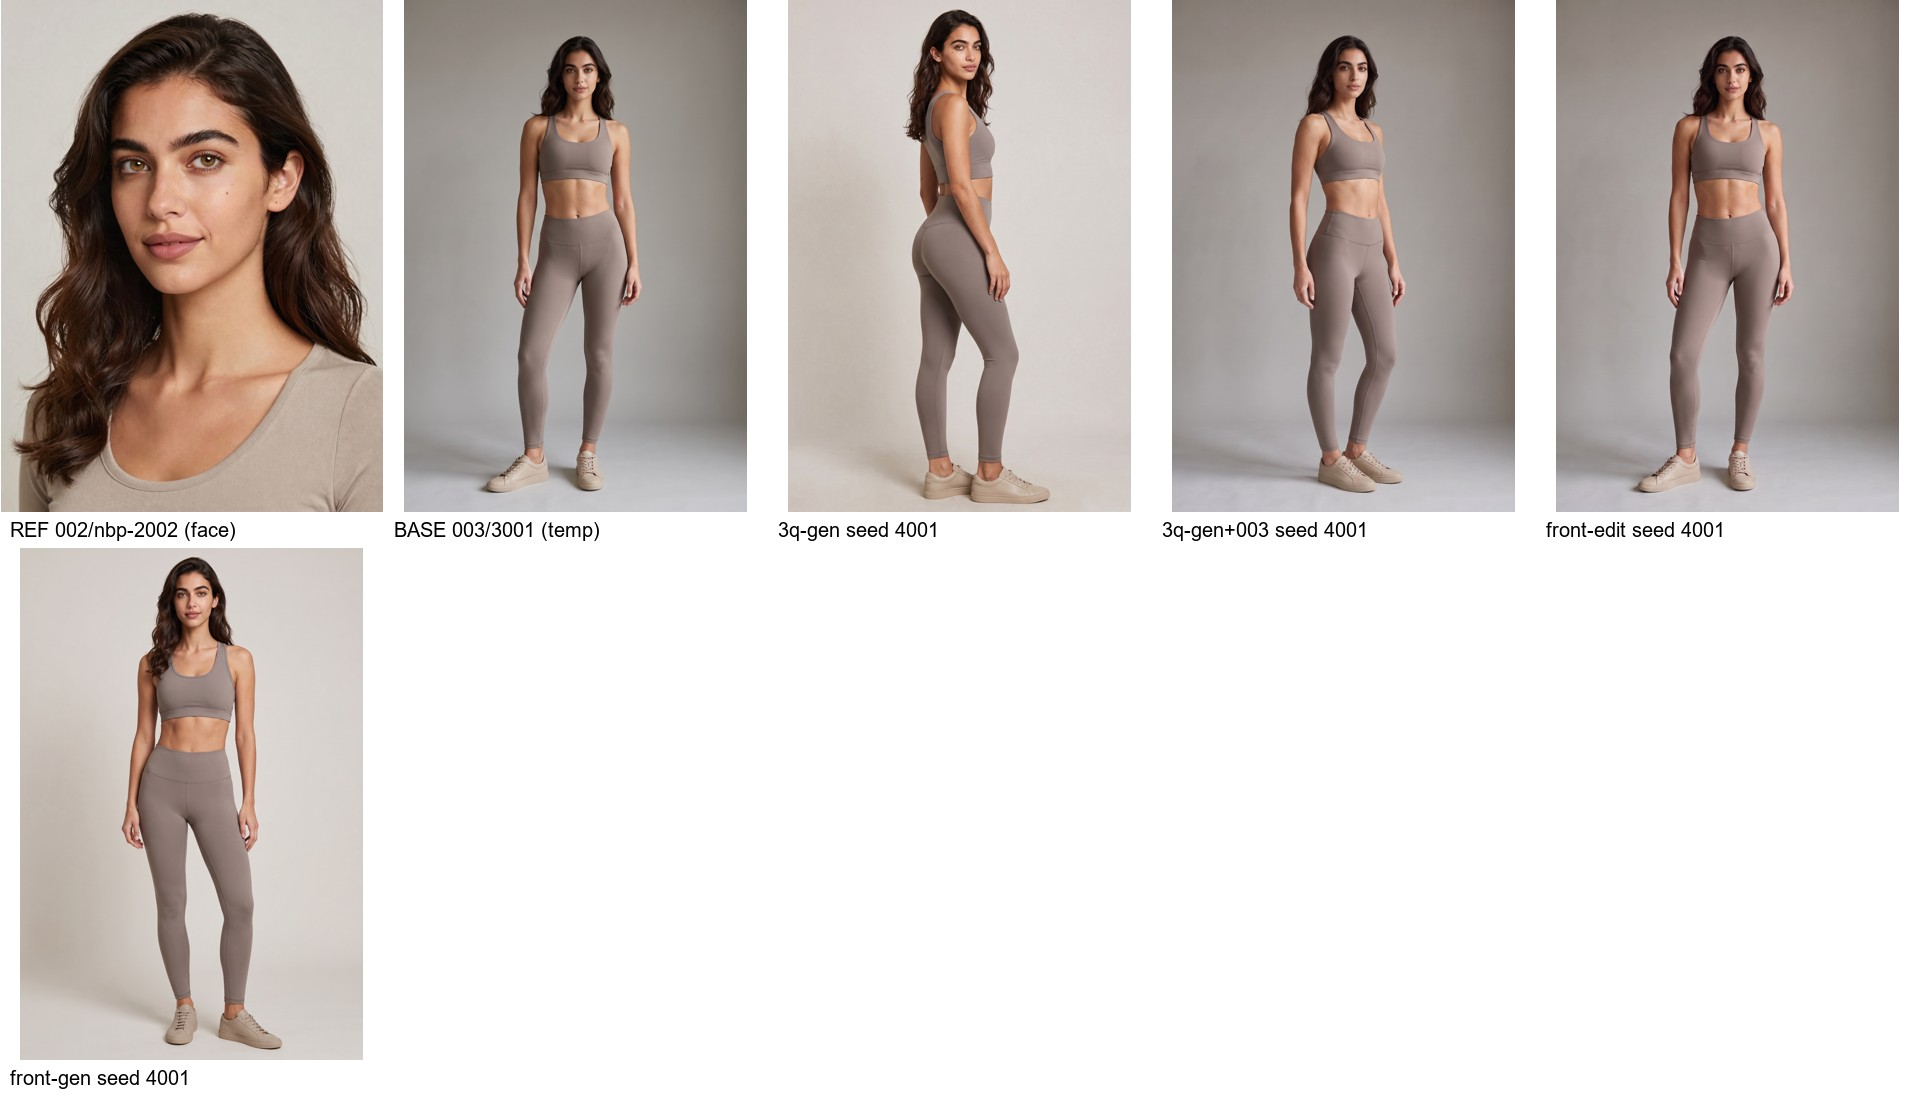
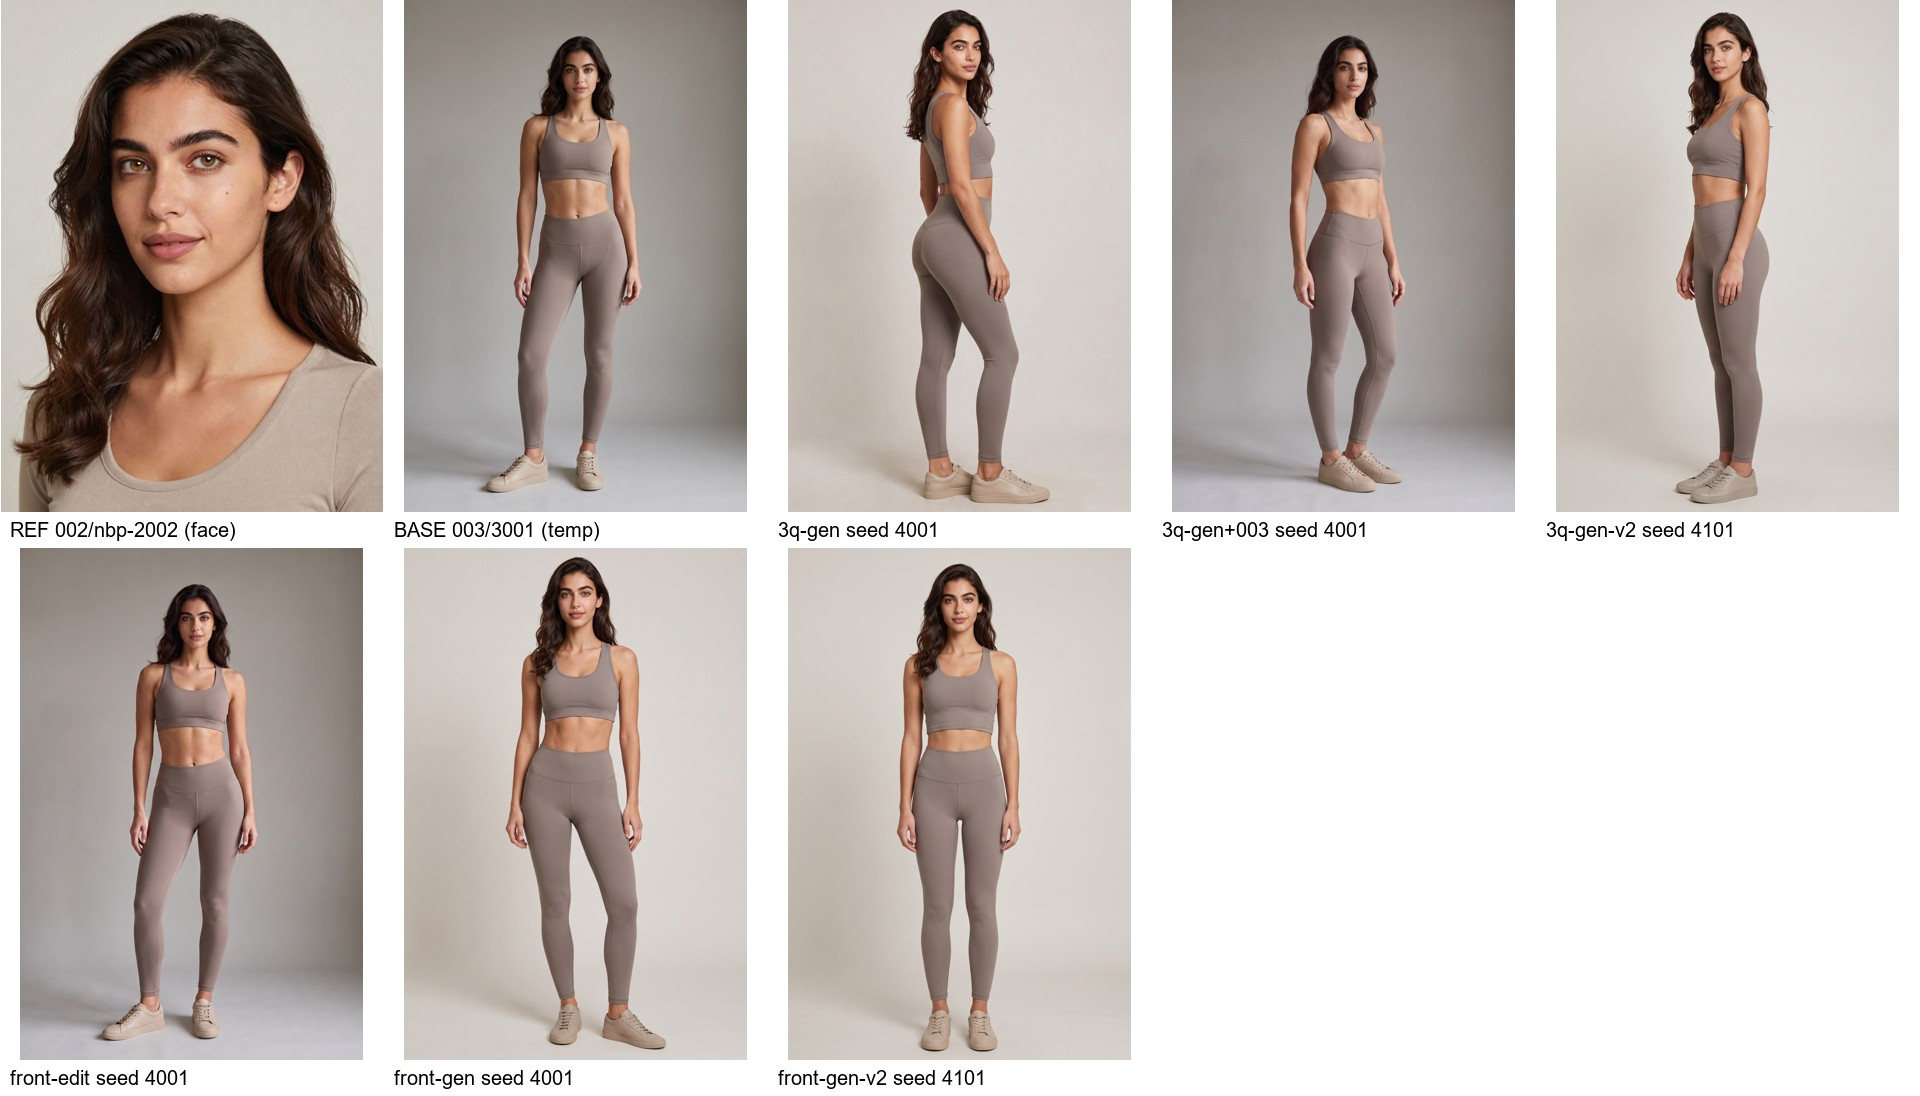
Experiment 004 revised batch 2: front-gen-v2 and 3q-gen-v2
Add v2 comparison sheet, face crops, measurements and log results.

diff --git a/EXPERIMENT_LOG.md b/EXPERIMENT_LOG.md
@@ -157,7 +157,7 @@ Experiment 004: lower-body shape refinement. Proposal: `experiments/004-body-sha
 
 ## Experiment 004 — Lower-Body Shape Refinement
 Date: 2026-10-25
-Status: Batch 1 (seed 4001, one image per arm) complete 2026-10-25. Paused for founder + ChatGPT review. Seeds 4002–4003 not approved.
+Status: Batch 1 and revised Batch 2 (seed 4101, front-gen-v2 + 3q-gen-v2) complete 2026-10-25. Paused for founder + ChatGPT review.
 
 ### Hypothesis
 Nano Banana Pro can add more lateral hip curvature and rounded, lifted glutes without changing the 2002 face, upper body, longer torso, waist width, bust or slim athletic build. Editing an Exp 003 image may control a front view better than generating fresh. For three-quarter views, an Exp 003 body reference may help or hinder.
@@ -245,4 +245,25 @@ Founder + ChatGPT assessment (2026-10-25):
 - Same success criteria as Experiment 004, plus: the front image must show a hip curve **visibly** more outward than the 003 base (side by side and by approximate width ratio); the three-quarter image must be a true 45° view with an unobscured hip and glute silhouette and identity ≥ 4/5.
 - **Approval (founder, after ChatGPT review, 2026-10-25):** two images, seed 4101, $0.30 estimate within the $2.50 cap. Before generating, the lower-body introduction was strengthened in both prompts to stress the **visible contrast between her slender upper body and naturally fuller hips and glutes**, with shoulders, waist, bust and torso proportions explicitly unchanged.
 - **Founder stopping rule:** if the hip shape still doesn't noticeably improve, stop revising the text and investigate a dedicated body-shape reference or a more controllable editing approach.
+
+### Results — Revised Batch 2 (seed 4101, 2 images)
+- Actual cost: **$0.30** by script estimate (2 × $0.15). Experiment 004 total: **$0.90** of the $2.50 cap. Month-to-date ≈ $3.03.
+- Both images 1696×2528. No seeds returned, no safety flags. References unchanged.
+- Files: `before_after_v2.jpg` (003 base, front-gen v1, front-gen-v2, 3q-gen v1, 3q-gen-v2 at identical scale), updated `face_crops.jpg`, `contact_sheet.jpg`, `runs.jsonl`, `review.csv`.
+- **Approximate front-view widths** (manual, ±10 px):
+
+| Image | Shoulders | Waist | Hips | Hip ÷ waist |
+|---|---|---|---|---|
+| 003 base | ~540 | ~322 | ~432 | ~1.34 |
+| front-gen 4001 (v1) | ~570 | ~324 | ~444 | ~1.37 |
+| **front-gen-v2 4101** | ~558 | ~320 | ~469 | **~1.47** |
+
+- Claude's technical first look (the acceptance calls are for founder + ChatGPT):
+  - **front-gen-v2:** a **measurable improvement**. Hip-to-waist ratio is about 1.47 vs about 1.34 for the base (roughly +10%), from wider hips while the waist stays about the same. The outward hip curve is visible side by side. The upper body, flat stomach and bust read as unchanged. Still clearly slim and realistic, not exaggerated. Whether the change is *enough* is the reviewers' call; it is noticeable but moderate.
+  - **3q-gen-v2:** **pose fixed**. A true front-left three-quarter view, left hip nearest the camera, front of the torso visible, arms clear of the hips. **The face is the closest to 2002 of any Exp 004 image**: same orientation, beauty mark on the left cheek. The glute projection and hip curve are visible but **clearly less pronounced than 3q-gen 4001**, so the rear-leaning v1 pose showed more shape than the true three-quarter view.
+  - Hands, feet and outfit look clean and on-brief in both.
+- **Against the founder's stopping rule:** the front view improved noticeably; the three-quarter view improved in pose and face but not in shape. Two text revisions have now moved the hip ratio by about 10% at most.
+
+### Decision
+Pending founder + ChatGPT review. If more shape change is wanted, the founder's rule points away from further text-only revisions, toward a dedicated body-shape reference or a more controllable editing approach.
 
